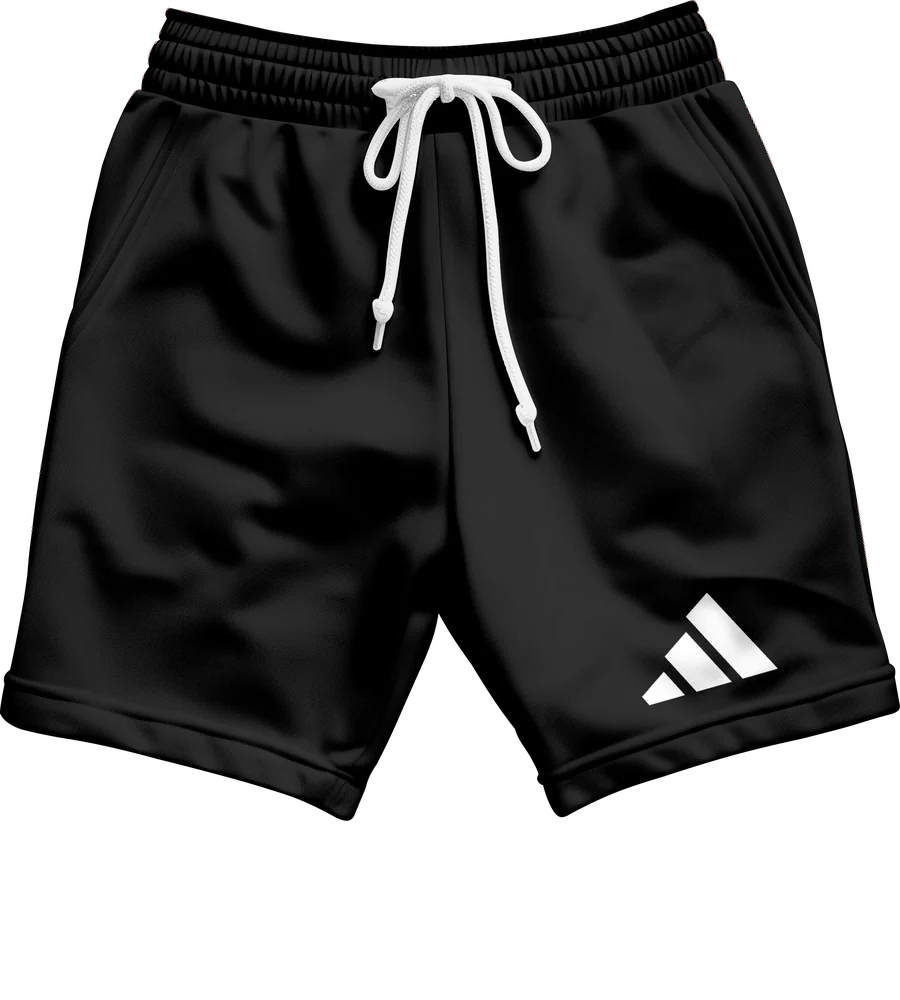
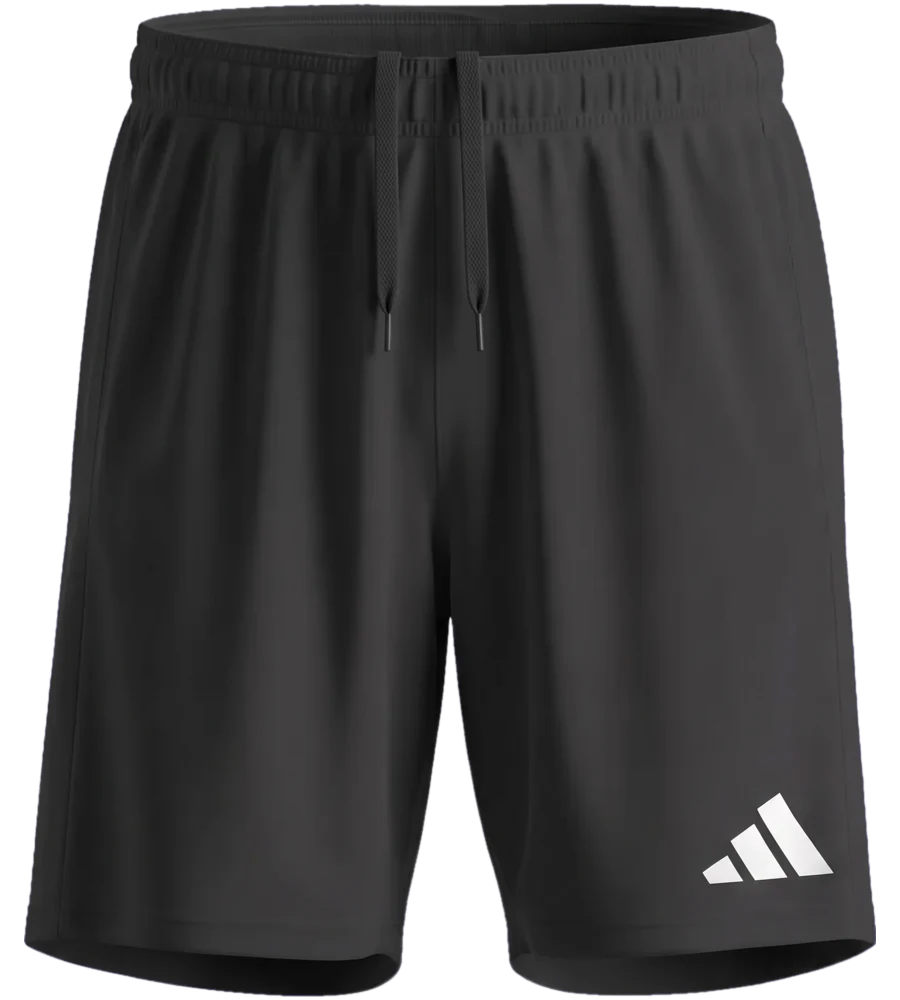
Entrada-shorts: nye bilder generert fra Tiro-shortsen, samme mål og logoplassering
Bildene (front og bak) er generert med Nano Banana 2.1 fra Tiro-shortsen uten
striper og ligger i samme plaggboks. Derfor har entrada-short samme mal og
samme logosone som tiro-shorts, inkludert rotasjonen etter fallet. Baksidebildet
ligger i katalogen, men vises ikke siden shortsen ikke har ryggtrykk. Bildene har
?v= i stien så nettleseren henter de nye.

diff --git a/api/src/katalog.js b/api/src/katalog.js
@@ -38,7 +38,7 @@ const TRYKKPRIS = {
 // Trykket plasseres i cm, ikke i prosent: TRYKKSONER under er den ene tabellen, og hvert plagg har
 // `mal` (målt på bildene) som gjør cm om til prosent av bildelerretet (900 × 1000). Da får trykket samme
 // fysiske størrelse og plass på alle plagg, selv om mockupene fyller lerretet ulikt.
-// Mockupene er PSD-er (Tiro jersey, Entrada TEE og shorts) og bilder generert med Nano Banana 2.1.
+// Mockupene er PSD-er (Tiro jersey, Entrada TEE og Tiro shorts) og bilder generert med Nano Banana 2.1.
 // Plaggbildene er laget fra de samme PSD-ene med NTNUI-trykket fjernet (verktoy/ i repoet).
 //
 // Regel fra Kristian: Climacool og alt som heter JERSEY er svart med hvite dekaler.
@@ -136,13 +136,16 @@ const PLAGG = [
   },
   {
     // Står ikke på kolleksjonsarket fra Intersport. Medlemsprisen er regnet ut, ikke bekreftet.
+    // Bildene er generert med Nano Banana 2.1 fra Tiro-shortsen (uten striper), 31.10.2026, og passer i samme
+    // plaggboks som Tiro-bildene. Derfor er `mal` og trykksonene de samme som på tiro-shorts. Baksidebildet
+    // er klart, men vises først når `sider` og `bak` åpner for ryggtrykk (Tiro-shortsen har ikke det).
     id: "entrada-short",
     navn: { nb: "Entrada26 shorts", en: "Entrada26 shorts" },
     kategori: "SHORTS",
     katalogpris: 199,
     pris: 150,
     farger: {
-      svart: { front: "img/plagg/entrada-short-svart-front.webp", prikk: "#111111" },
+      svart: { front: "img/plagg/entrada-short-svart-front.webp?v=20261031", bak: "img/plagg/entrada-short-svart-bak.webp?v=20261031", prikk: "#111111" },
     },
     artikler: { "svart:herre": "JZ2521", "svart:dame": "JZ2533" },
     storrelser: { herre: HERRE, dame: DAME },
@@ -159,9 +162,10 @@ const PLAGG = [
     navnFelt: false,
     // Midjen er målestokken (flat bredde i bånd, antatt 40 cm), halsen er øverst midt på linningen
     mal: {
-      front: { hals: { x: 48.4, y: 1.2 }, bredde: 61.7, cm: 40 },
+      front: { hals: { x: 49.7, y: 1.2 }, bredde: 67.4, cm: 40 },
     },
-    sonerCm: { bryst: { b: 10, dx: -16.5, dy: 43.8 } }, // nede på venstre lår, som Kristian markerte 30.10
+    // Som tiro-shorts: nede på venstre lår, rett over fallet, rotert etter fallet (samme omriss)
+    sonerCm: { bryst: { b: 10, dx: -16.5, dy: 54.5, rot: 3.5 } },
   },
   {
     // Bare herremodell. Hvit (JZ6579, herre) finnes, men har ikke bilde ennå. Bildet er generert med Nano Banana 2.1

diff --git a/docs/shop/katalog.js b/docs/shop/katalog.js
@@ -36,7 +36,7 @@ const TRYKKPRIS = {
 // Trykket plasseres i cm, ikke i prosent: TRYKKSONER under er den ene tabellen, og hvert plagg har
 // `mal` (målt på bildene) som gjør cm om til prosent av bildelerretet (900 × 1000). Da får trykket samme
 // fysiske størrelse og plass på alle plagg, selv om mockupene fyller lerretet ulikt.
-// Mockupene er PSD-er (Tiro jersey, Entrada TEE og shorts) og bilder generert med Nano Banana 2.1.
+// Mockupene er PSD-er (Tiro jersey, Entrada TEE og Tiro shorts) og bilder generert med Nano Banana 2.1.
 // Plaggbildene er laget fra de samme PSD-ene med NTNUI-trykket fjernet (verktoy/ i repoet).
 //
 // Regel fra Kristian: Climacool og alt som heter JERSEY er svart med hvite dekaler.
@@ -134,13 +134,16 @@ const PLAGG = [
   },
   {
     // Står ikke på kolleksjonsarket fra Intersport. Medlemsprisen er regnet ut, ikke bekreftet.
+    // Bildene er generert med Nano Banana 2.1 fra Tiro-shortsen (uten striper), 31.10.2026, og passer i samme
+    // plaggboks som Tiro-bildene. Derfor er `mal` og trykksonene de samme som på tiro-shorts. Baksidebildet
+    // er klart, men vises først når `sider` og `bak` åpner for ryggtrykk (Tiro-shortsen har ikke det).
     id: "entrada-short",
     navn: { nb: "Entrada26 shorts", en: "Entrada26 shorts" },
     kategori: "SHORTS",
     katalogpris: 199,
     pris: 150,
     farger: {
-      svart: { front: "img/plagg/entrada-short-svart-front.webp", prikk: "#111111" },
+      svart: { front: "img/plagg/entrada-short-svart-front.webp?v=20261031", bak: "img/plagg/entrada-short-svart-bak.webp?v=20261031", prikk: "#111111" },
     },
     artikler: { "svart:herre": "JZ2521", "svart:dame": "JZ2533" },
     storrelser: { herre: HERRE, dame: DAME },
@@ -157,9 +160,10 @@ const PLAGG = [
     navnFelt: false,
     // Midjen er målestokken (flat bredde i bånd, antatt 40 cm), halsen er øverst midt på linningen
     mal: {
-      front: { hals: { x: 48.4, y: 1.2 }, bredde: 61.7, cm: 40 },
+      front: { hals: { x: 49.7, y: 1.2 }, bredde: 67.4, cm: 40 },
     },
-    sonerCm: { bryst: { b: 10, dx: -16.5, dy: 43.8 } }, // nede på venstre lår, som Kristian markerte 30.10
+    // Som tiro-shorts: nede på venstre lår, rett over fallet, rotert etter fallet (samme omriss)
+    sonerCm: { bryst: { b: 10, dx: -16.5, dy: 54.5, rot: 3.5 } },
   },
   {
     // Bare herremodell. Hvit (JZ6579, herre) finnes, men har ikke bilde ennå. Bildet er generert med Nano Banana 2.1

diff --git a/docs/shop/admin/index.html b/docs/shop/admin/index.html
@@ -83,7 +83,7 @@
 
   <div class="toast" id="toast" role="status" aria-live="polite"></div>
 
-  <script src="../katalog.js?v=202610311430"></script>
+  <script src="../katalog.js?v=202610311500"></script>
   <script src="../tegning.js?v=202610311400"></script>
   <script src="zip.js?v=202610311100"></script>
   <script src="admin.js?v=202610311400"></script>

diff --git a/docs/shop/designer.html b/docs/shop/designer.html
@@ -235,7 +235,7 @@
 
   <div class="toast" id="toast" role="status" aria-live="polite"></div>
 
-  <script src="katalog.js?v=202610311430"></script>
+  <script src="katalog.js?v=202610311500"></script>
   <script src="felles.js?v=202610302135"></script>
   <script src="tegning.js?v=202610311400"></script>
   <script src="designer.js?v=202610311400"></script>

diff --git a/docs/shop/index.html b/docs/shop/index.html
@@ -241,7 +241,7 @@
 
   <div class="toast" id="toast" role="status" aria-live="polite"></div>
 
-  <script src="katalog.js?v=202610311430"></script>
+  <script src="katalog.js?v=202610311500"></script>
   <script src="felles.js?v=202610302135"></script>
   <script>
     // Ticker med gruppene: to like runder gir sømløs løkke
